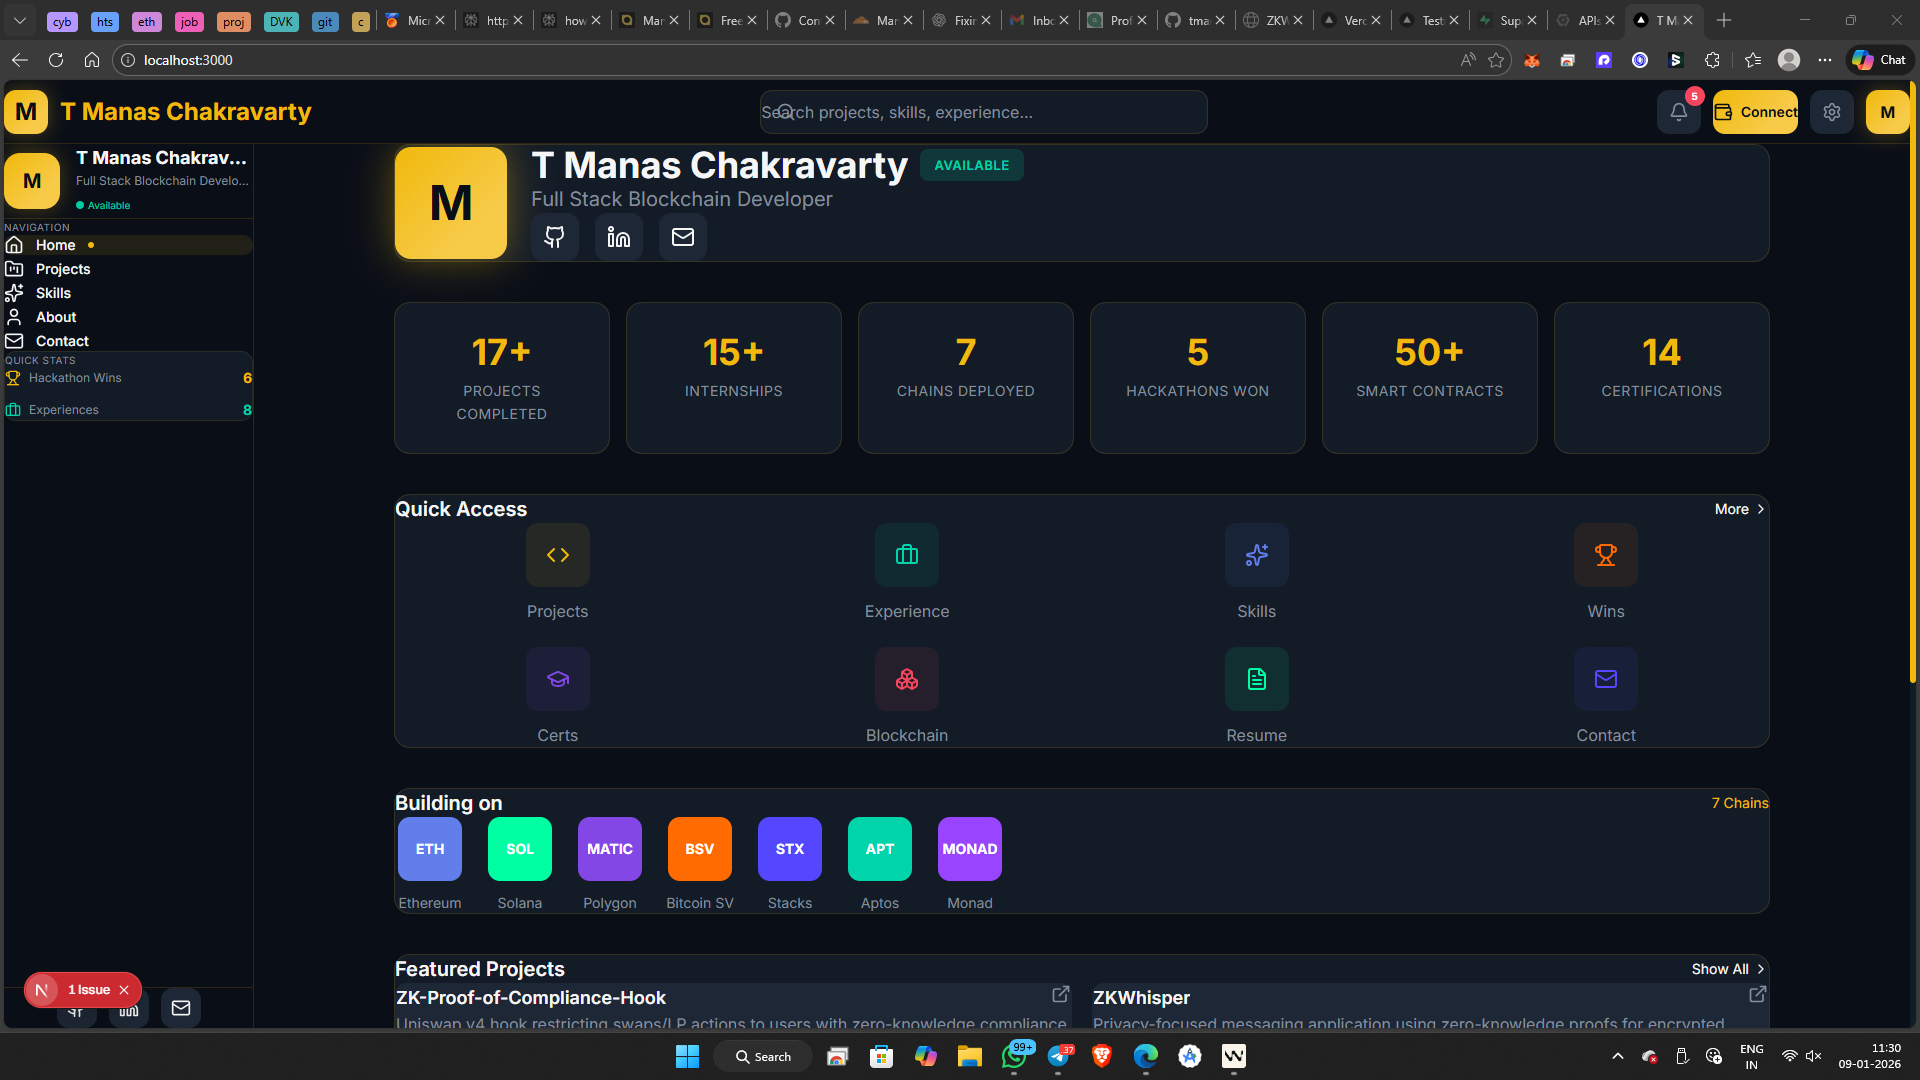
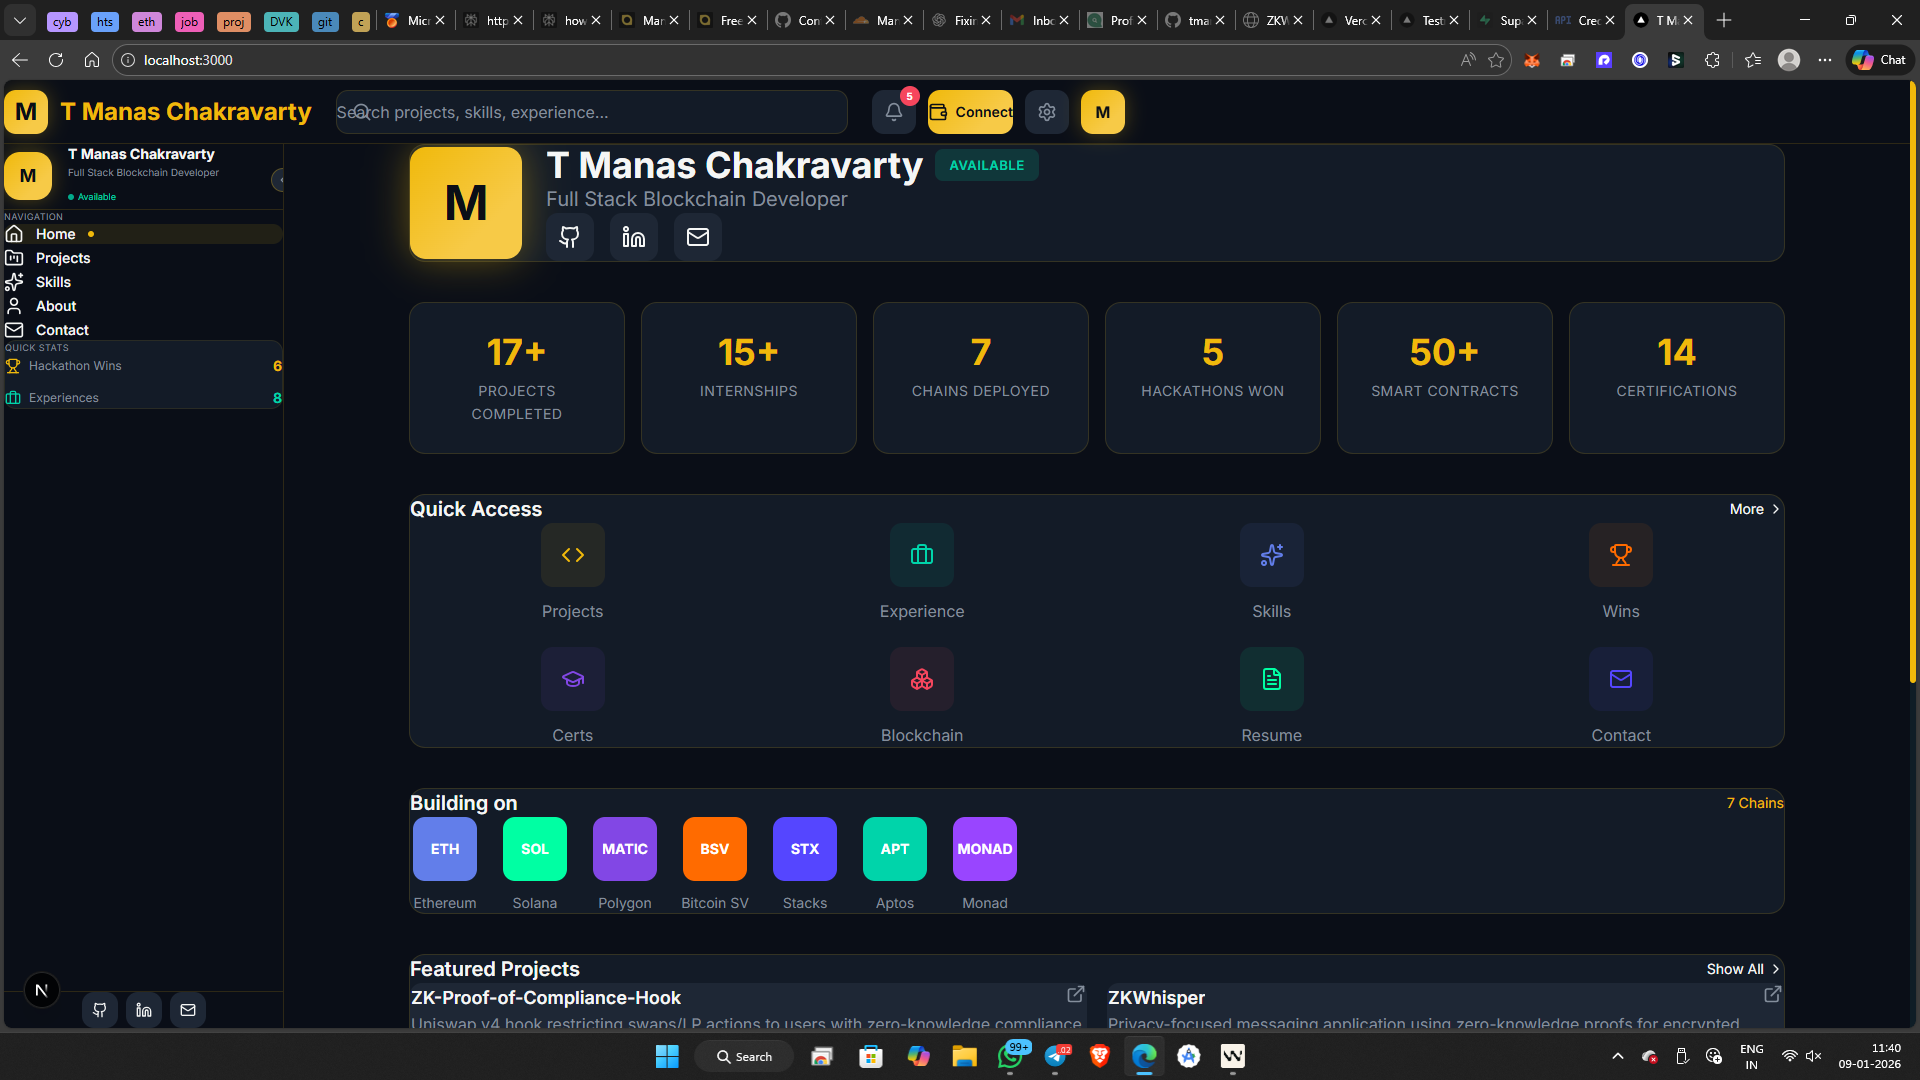
spacing

diff --git a/src/components/CandyBoxHeader.tsx b/src/components/CandyBoxHeader.tsx
@@ -273,20 +273,20 @@ export default function CandyBoxHeader() {
   return (
     <>
       <header className="fixed top-0 left-0 right-0 z-50 h-16 bg-[#0A0E17] border-b border-[rgba(240,185,11,0.15)]">
-        <div className="h-full px-4 lg:px-6 flex items-center justify-between">
+        <div className="h-full px-4 lg:px-6 flex items-center">
           {/* Left: Logo */}
-          <Link href="/" className="flex items-center gap-3">
+          <Link href="/" className="flex items-center gap-3 flex-shrink-0" style={{ marginRight: '48px' }}>
             <div className="w-11 h-11 rounded-xl gradient-gold flex items-center justify-center glow-gold-sm">
               <span className="text-[#0A0E17] font-bold text-2xl">M</span>
             </div>
-            <span className="text-[#F0B90B] font-bold text-2xl hidden sm:block">
+            <span className="text-[#F0B90B] font-bold text-2xl hidden sm:block whitespace-nowrap">
               {personalInfo.firstName}
             </span>
           </Link>
 
           {/* Center: Search (Desktop) */}
-          <div ref={searchRef} className="hidden md:flex flex-1 max-w-md mx-8 relative">
-            <form onSubmit={handleSearchSubmit} className="w-full">
+          <div ref={searchRef} className="hidden md:flex flex-1 relative" style={{ marginRight: '48px' }}>
+            <form onSubmit={handleSearchSubmit} className="w-full max-w-lg">
               <div className="relative w-full">
                 <Search className="absolute left-4 top-1/2 -translate-y-1/2 w-5 h-5 text-[#848E9C]" />
                 <input
@@ -368,7 +368,7 @@ export default function CandyBoxHeader() {
           </div>
 
           {/* Right: Actions */}
-          <div className="flex items-center gap-3">
+          <div className="flex items-center gap-3 flex-shrink-0">
             {/* Search (Mobile) */}
             <button
               onClick={() => setShowMobileSearch(true)}

diff --git a/src/app/page.tsx b/src/app/page.tsx
@@ -40,7 +40,10 @@ export default function HomePage() {
   const featuredProjects = projects.filter((p) => p.featured).slice(0, 4);
 
   return (
-    <div className="container-main py-10 flex flex-col gap-10">
+    <div className="container-main py-6 flex flex-col gap-8">
+      {/* Spacer for visual separation from header */}
+      <div className="h-4" />
+
       {/* Profile Card */}
       <motion.div
         initial={{ opacity: 0, y: 20 }}
